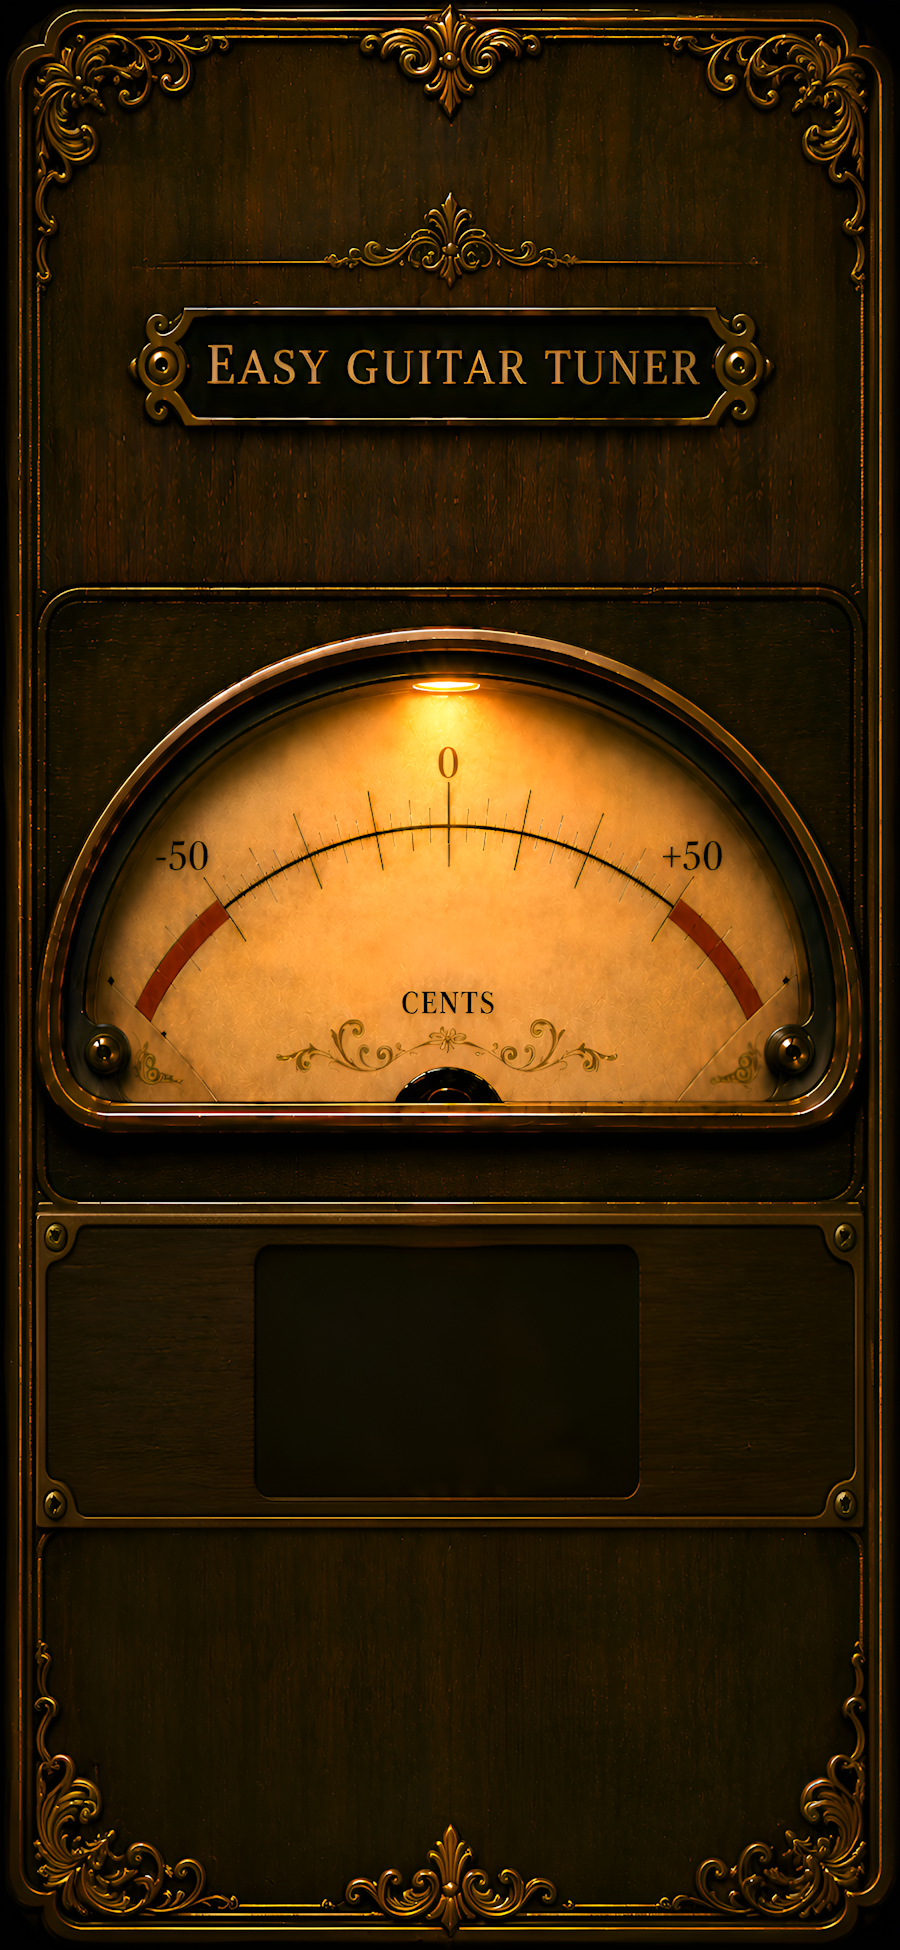
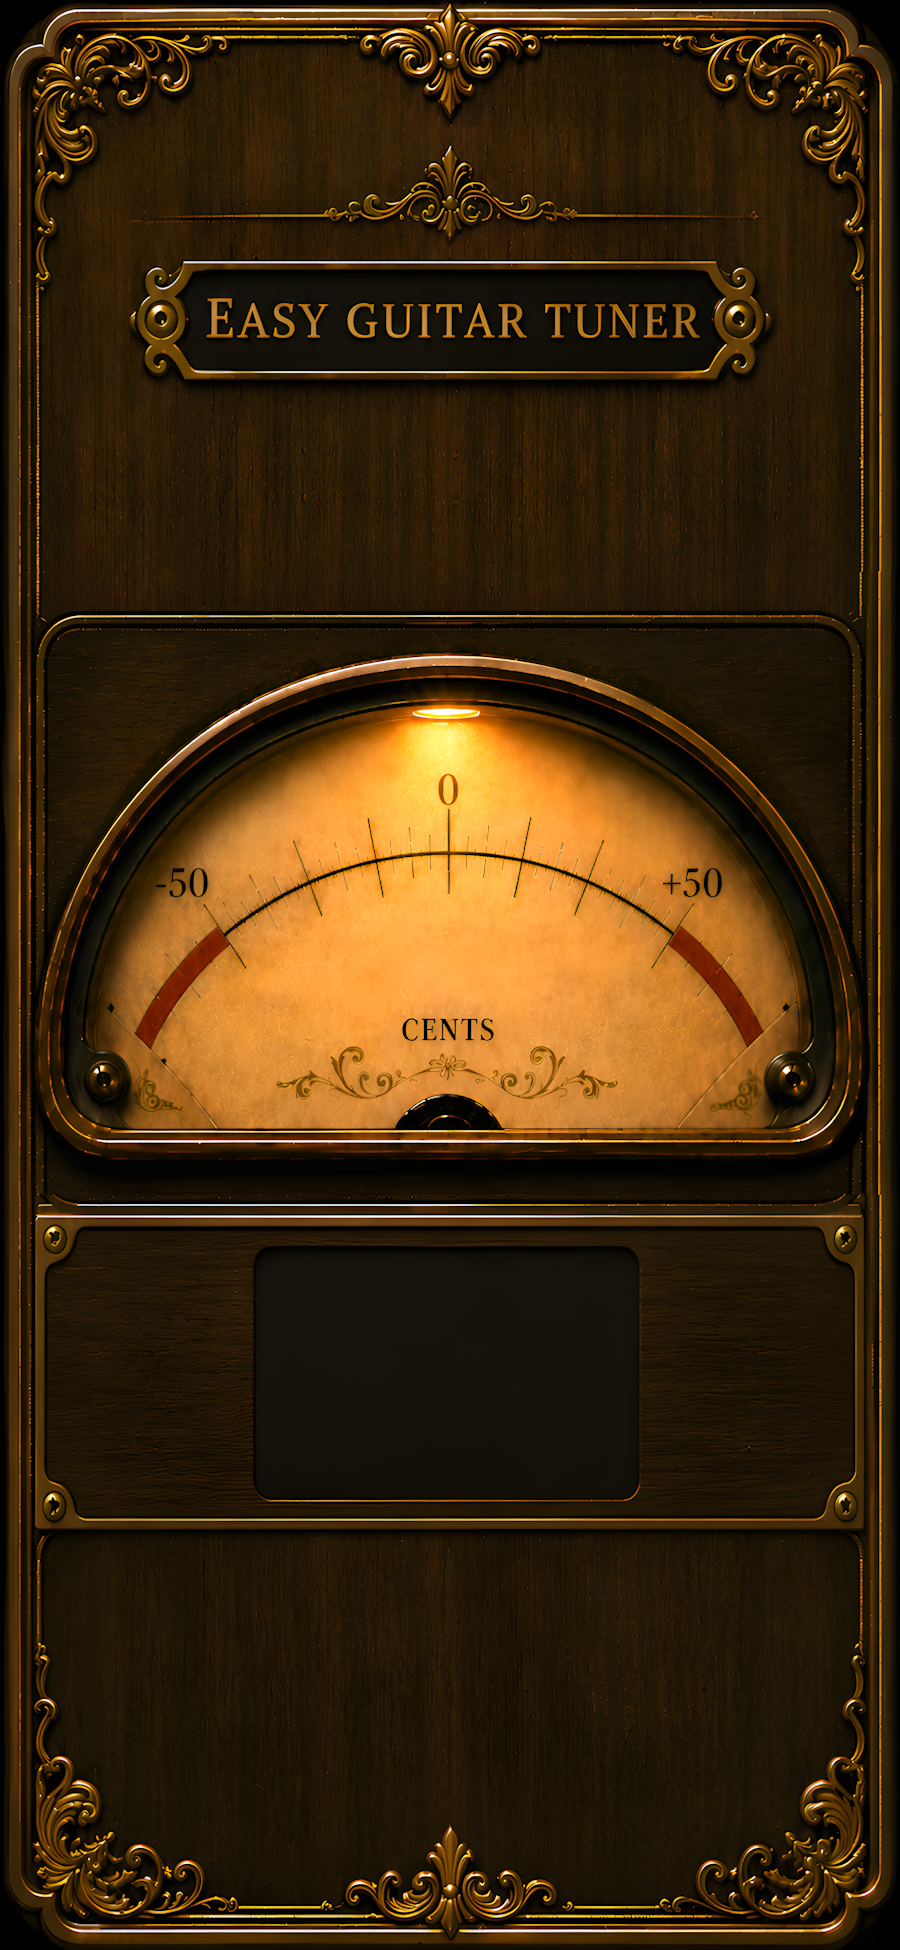
Backup: actualizat imaginea de fundal (background_1950_900 -> Resources/Raw/background.png) si TunerSettings

Changed region(s): [[0.0, 0.0, 0.9956, 1.0]]

diff --git a/TunerSettings.cs b/TunerSettings.cs
@@ -8,21 +8,21 @@ public static class TunerSettings
 	public const int SampleRateHz = 48000; // rata nativa pe majoritatea telefoanelor Android/iOS (evita resampling)
 	public const int AnalysisWindowSamples = 32768; // fereastra FFT (~683ms la 48000 Hz) — precizie mai buna jos (E2) (~3 analize/sec)
 
-	// --- Detectie pitch ---
+	// --- Detectie pitch --- 
 	public const double NoiseFloorRms = 0.001; // pragul de VOLUM de la care incepe analiza (mai mare = ignora sunete slabe)
 	public const double MinFrequencyHz = 60; // putin sub B1 (61.74 Hz); tampon fata de hum-ul de 50 Hz
 	public const double MaxFrequencyHz = 1000; // peste G5 (783.99 Hz) cu marja pentru +50 centi
 	public const int HarmonicCount = 7; // armonice folosite de HPS
 
 	// --- Stabilizare frecventa ---
-	public const int MedianWindow = 5; // cate valori brute intra in filtrul median (respinge outlieri)
-	public const double FrequencySmoothingAlpha = 0.4; // EMA peste mediana (mai mic = mai lin, mai mare = mai reactiv)
+	public const int MedianWindow = 10; // cate valori brute intra in filtrul median (respinge outlieri)
+	public const double FrequencySmoothingAlpha = 0.8; // EMA peste mediana (mai mic = mai lin, mai mare = mai reactiv)
 	public const double JumpThreshold = 0.15; // peste acest salt relativ = schimbare de coarda (snap)
 	public const int HoldCycles = 0; // cicluri de liniste cat se pastreaza ultima nota inainte de reset (~1s la 3 analize/sec)
 
 	// --- Analiza nota ---
 	public const double ReferencePitchHz = 440.0; // A4 — referinta pentru scala cromatica egal temperata
-	public const double InTuneToleranceCents = 5.0; // sub atatia centi nota e considerata acordata
+	public const double InTuneToleranceCents = 2.0; // sub atatia centi nota e considerata acordata
 
 	// --- Afisaj / ac indicator ---
 	public const double CentsDeadband = 2.0; // sub atatia centi acul sta fix pe 0 (fara micro-tremur)